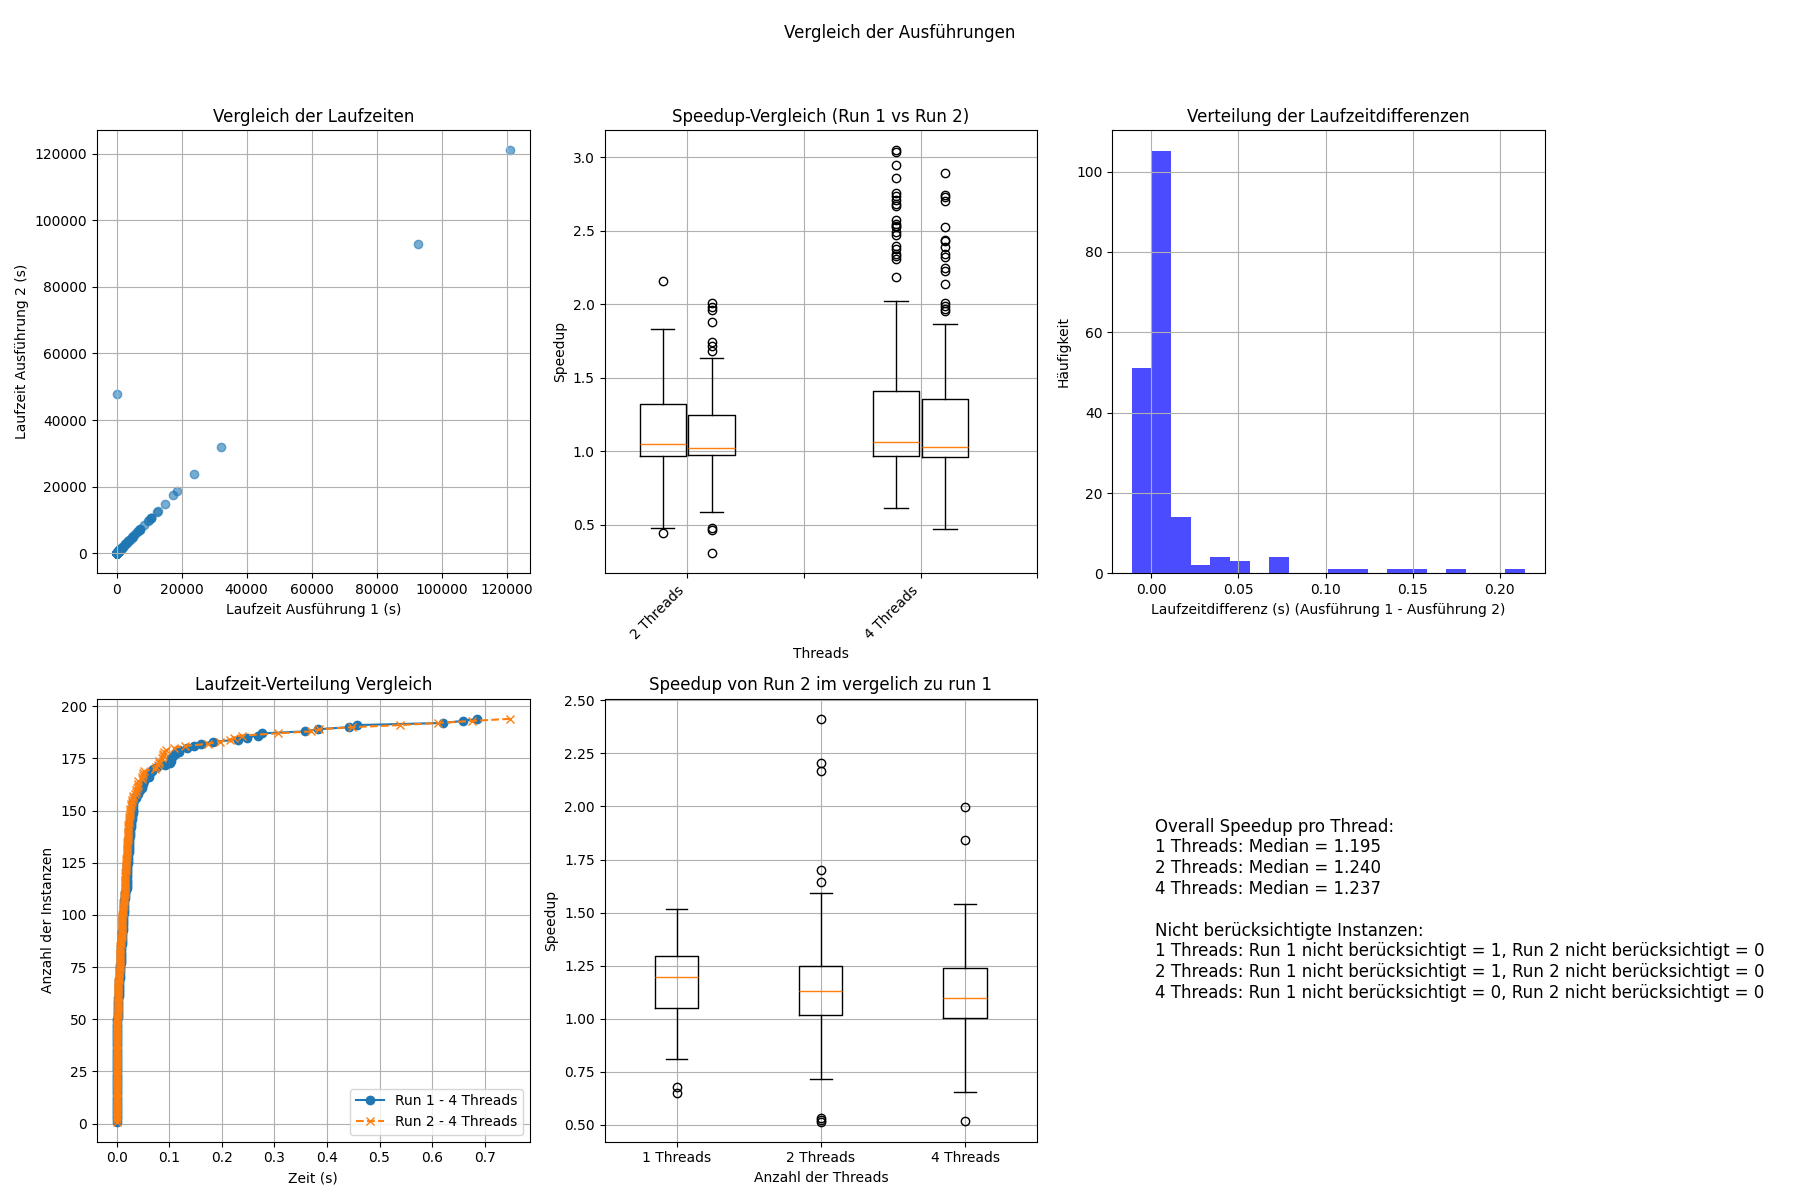
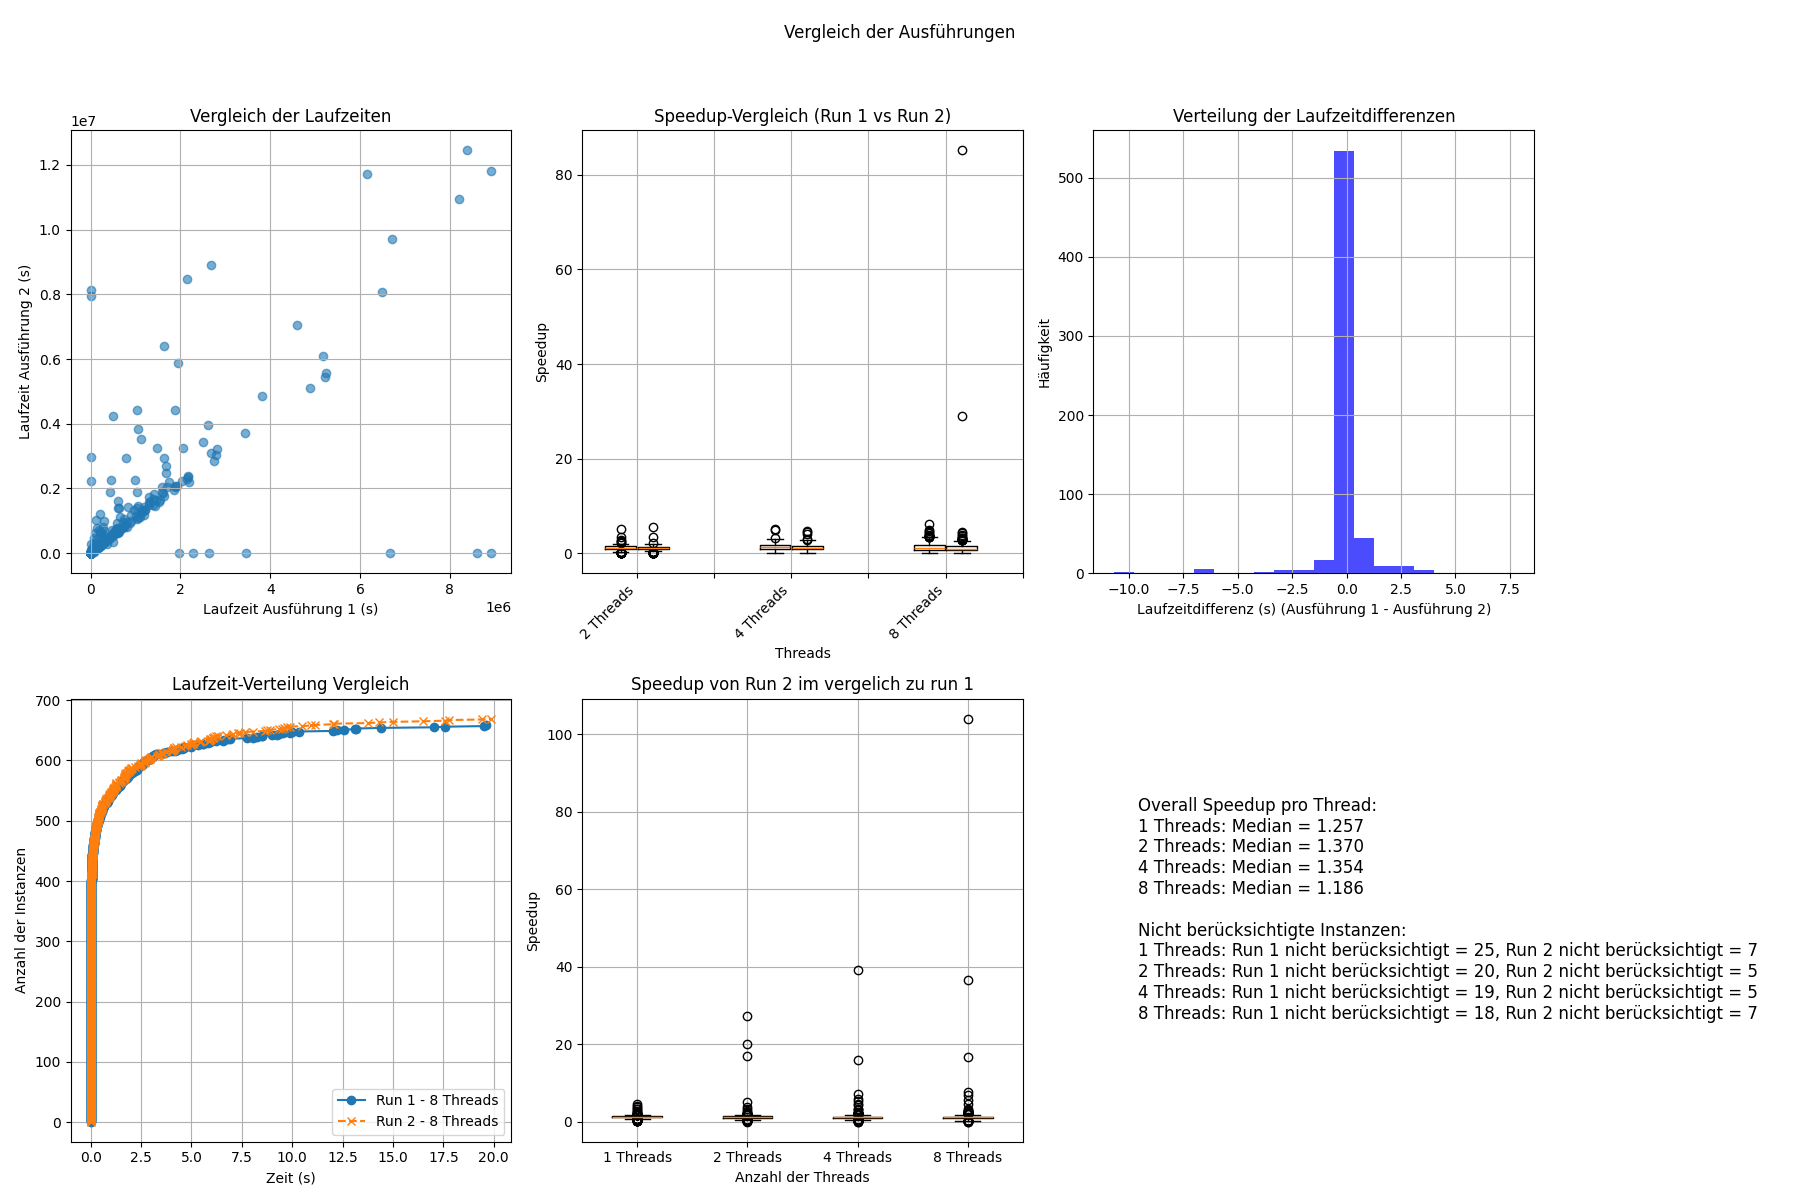
updated/ improved the plots a bit

diff --git a/src/plotting/plotter.py b/src/plotting/plotter.py
@@ -87,7 +87,10 @@ def plot_speedups(ax, data):
         for i in range(1, num_thread_configs):
             if times[i] != float('inf') and times[0] != float('inf'):
                 speedup = times[0] / times[i]
-                speedups[f'{2**i} Threads'].append(speedup)
+                if (speedup > 2 ** (i + 1)): # filter speedups
+                    continue
+                else:
+                    speedups[f'{2**i} Threads'].append(speedup)
     
     for label, values in speedups.items():
         ax.plot(sorted(values), np.arange(1, len(values) + 1), label=label)
@@ -106,7 +109,10 @@ def plot_speedup_statistics(ax, data):
         for i in range(1, num_thread_configs):
             if times[i] != float('inf') and times[0] != float('inf'):
                 speedup = times[0] / times[i]
-                speedups_per_thread[f'{2**i} Threads'].append(speedup)
+                if (speedup > 2 ** (i + 1)): # filter speedups
+                    continue
+                else:
+                    speedups_per_thread[f'{2**i} Threads'].append(speedup)
 
     median_speedups = {}
     mean_speedups = {}
@@ -141,7 +147,10 @@ def plot_speedup_boxplot(ax, data):
         for i in range(1, num_thread_configs):
             if times[i] != float('inf') and times[0] != float('inf'):
                 speedup = times[0] / times[i]
-                speedups_per_thread[f'{2**i} Threads'].append(speedup)
+                if (speedup > 2 ** (i + 1)): # filter speedups
+                    continue
+                else:
+                    speedups_per_thread[f'{2**i} Threads'].append(speedup)
 
     # Sammle die Speedups in einer Liste für den Boxplot
     speedups_data = [speedups_per_thread[threads] for threads in speedups_per_thread]
@@ -162,7 +171,10 @@ def plot_speedup_boxplot_filtered(ax, data, min_time=0.01):
             for i in range(1, num_thread_configs):
                 if times[i] != float('inf'):
                     speedup = times[0] / times[i]
-                    speedups_per_thread[f'{2**i} Threads'].append(speedup)
+                    if (speedup > 2 ** (i + 1)): # filter speedups
+                        continue
+                    else:
+                        speedups_per_thread[f'{2**i} Threads'].append(speedup)
 
     # Sammle die Speedups in einer Liste für den Boxplot
     speedups_data = [speedups_per_thread[threads] for threads in speedups_per_thread]
@@ -367,12 +379,12 @@ def plot_relative_array_values_per_instance(ax, data, interp_length=100):
 
 def plot_all_in_one(data, ComplexData, plotpath):
     fig, axs = initialize_subplots(4, 3, "Analyse der Laufzeiten und Speedups")
-    min_time = 0.03
+    min_time = 0.1
     plot_cumulative_times(axs[0, 0], data)
     plot_speedups(axs[1, 0], data)
     plot_speedup_statistics(axs[0, 2], data)
     plot_speedup_boxplot(axs[0, 1], data)
-    plot_boxplot_times(axs[1, 1], data)
+    # plot_boxplot_times(axs[1, 1], data)
     plot_canceled_jobs(axs[1,2], data)
     plot_cumulative_times_filtered(axs[2,0], data, min_time)
     plot_speedup_boxplot_filtered(axs[2,1], data, min_time)

diff --git a/src/plotting/compare_executions.py b/src/plotting/compare_executions.py
@@ -106,7 +106,7 @@ def plot_runtime_diff_distribution(ax, data1, data2):
 
 def plot_cumulative_times_comparison(ax, data1, data2):
     num_thread_configs = len(data1[0][1])
-    i = num_thread_configs - 1
+    i = 0# num_thread_configs - 1
     # Bereite die Laufzeiten für die erste Ausführung vor
     times1 = np.sort([times[i][0] for name, times in data1 if times[i][0] != float('inf')])
     # Bereite die Laufzeiten für die zweite Ausführung vor
@@ -133,7 +133,10 @@ def calculate_speedups(data1, data2):
             for i in range(0, num_thread_configs):
                 if times1[i][0] != float('inf') and times2[i][0] != float('inf'):
                     speedup = times1[i][0] / times2[i][0]
-                    speedups[f'{2**i} Threads'].append(speedup)
+                    if (speedup > 1.5 *(2 ** (i))): # filter speedups
+                        continue
+                    else:
+                        speedups[f'{2**i} Threads'].append(speedup)
     
     return speedups
 
@@ -206,7 +209,7 @@ def plot_all_in_one(data1, data2, output_filepath):
     # Beispiel für Subplots
     plot_runtime_comparison(axs[0, 0], data1, data2)
     plot_speedup_comparison_boxplot(axs[0, 1], data1, data2)
-    plot_runtime_diff_distribution(axs[0, 2], data1, data2)
+    # plot_runtime_diff_distribution(axs[0, 2], data1, data2)
     plot_cumulative_times_comparison(axs[1, 0], data1, data2)
     plot_speedup_comparison_boxplot2(axs[1, 1], speedups)
     calculate_speedup_statistics(axs[1, 2], data1, data2)
